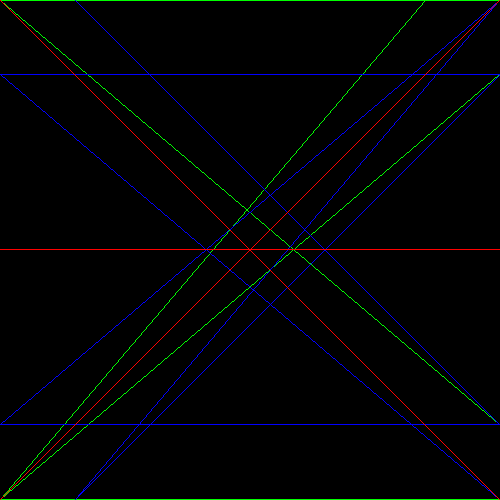
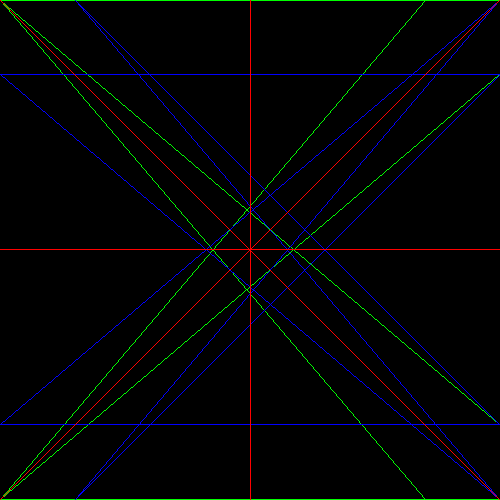
makeshift fix for vertical line

Changed region(s): [[0.48, 0.57, 0.51, 0.6], [0.48, 0.39, 0.51, 0.42]]

diff --git a/c/draw.c b/c/draw.c
@@ -18,10 +18,25 @@ void draw_line(int x0, int y0, int x1, int y1, screen s, color c) {
     x1 = tx; y1 = ty;
   }
 
-
   /* TODO: FIX THIS */
   //Vertical line, infinite slope
   if ((x1-x0)==0){
+    x = x0; y = y0;
+    A = y1-y0; B = -(x1-x0);
+    d = A+2*B;
+    while(y <= y1){
+      plot(s,c,x,y);
+      y+=1;
+      d+=2*B;
+    }
+    x = x0; y = y0;
+    A = y1-y0; B = -(x1-x0);
+    d = A-2*B;
+    while(y >= y1){
+      plot(s,c,x,y);
+      y-=1;
+      d-=2*B;
+    }
     return;
   }
     
@@ -61,21 +76,6 @@ void draw_line(int x0, int y0, int x1, int y1, screen s, color c) {
   }
 
   //OCTANT VIII
-
-  /***********************************/
-  /* *_Algorithm_* (Octant 8)	     */
-  /* (x_o, y_o) -> (x_1, y_1)  	     */
-  /* x=x_o, y=y_o		     */
-  /* A = y_1 - y_o, B = -(x_1 - x_o) */
-  /* d = 2A - B			     */
-  /* while(x \leq x_1)		     */
-  /*   plot (x, y)		     */
-  /*   if (d>0) ?		     */
-  /*     y-=1			     */
-  /*     d-=2B			     */
-  /*   x+=1			     */
-  /*   d+=2A			     */
-  /***********************************/
   m = (y1-y0)/(x1-x0); 
   if ((m >= -1 && m <= 0 )){
     x = x0; y = y0;
@@ -92,7 +92,23 @@ void draw_line(int x0, int y0, int x1, int y1, screen s, color c) {
     }
   }
 
-  
+  //OCTANT VII
+  m = (y1-y0)/(x1-x0); 
+  if ((m <= -1 )){
+    x = x0; y = y0;
+    A = y1-y0; B = -(x1-x0);
+    d = A-2*B;
+    while(y >= y1){
+      plot(s,c,x,y);
+      if (d>0){
+	x+=1;
+	d+=2*A;
+      }
+      y-=1;
+      d-=2*B;
+    }
+  }
     
-  
+
+
 }
